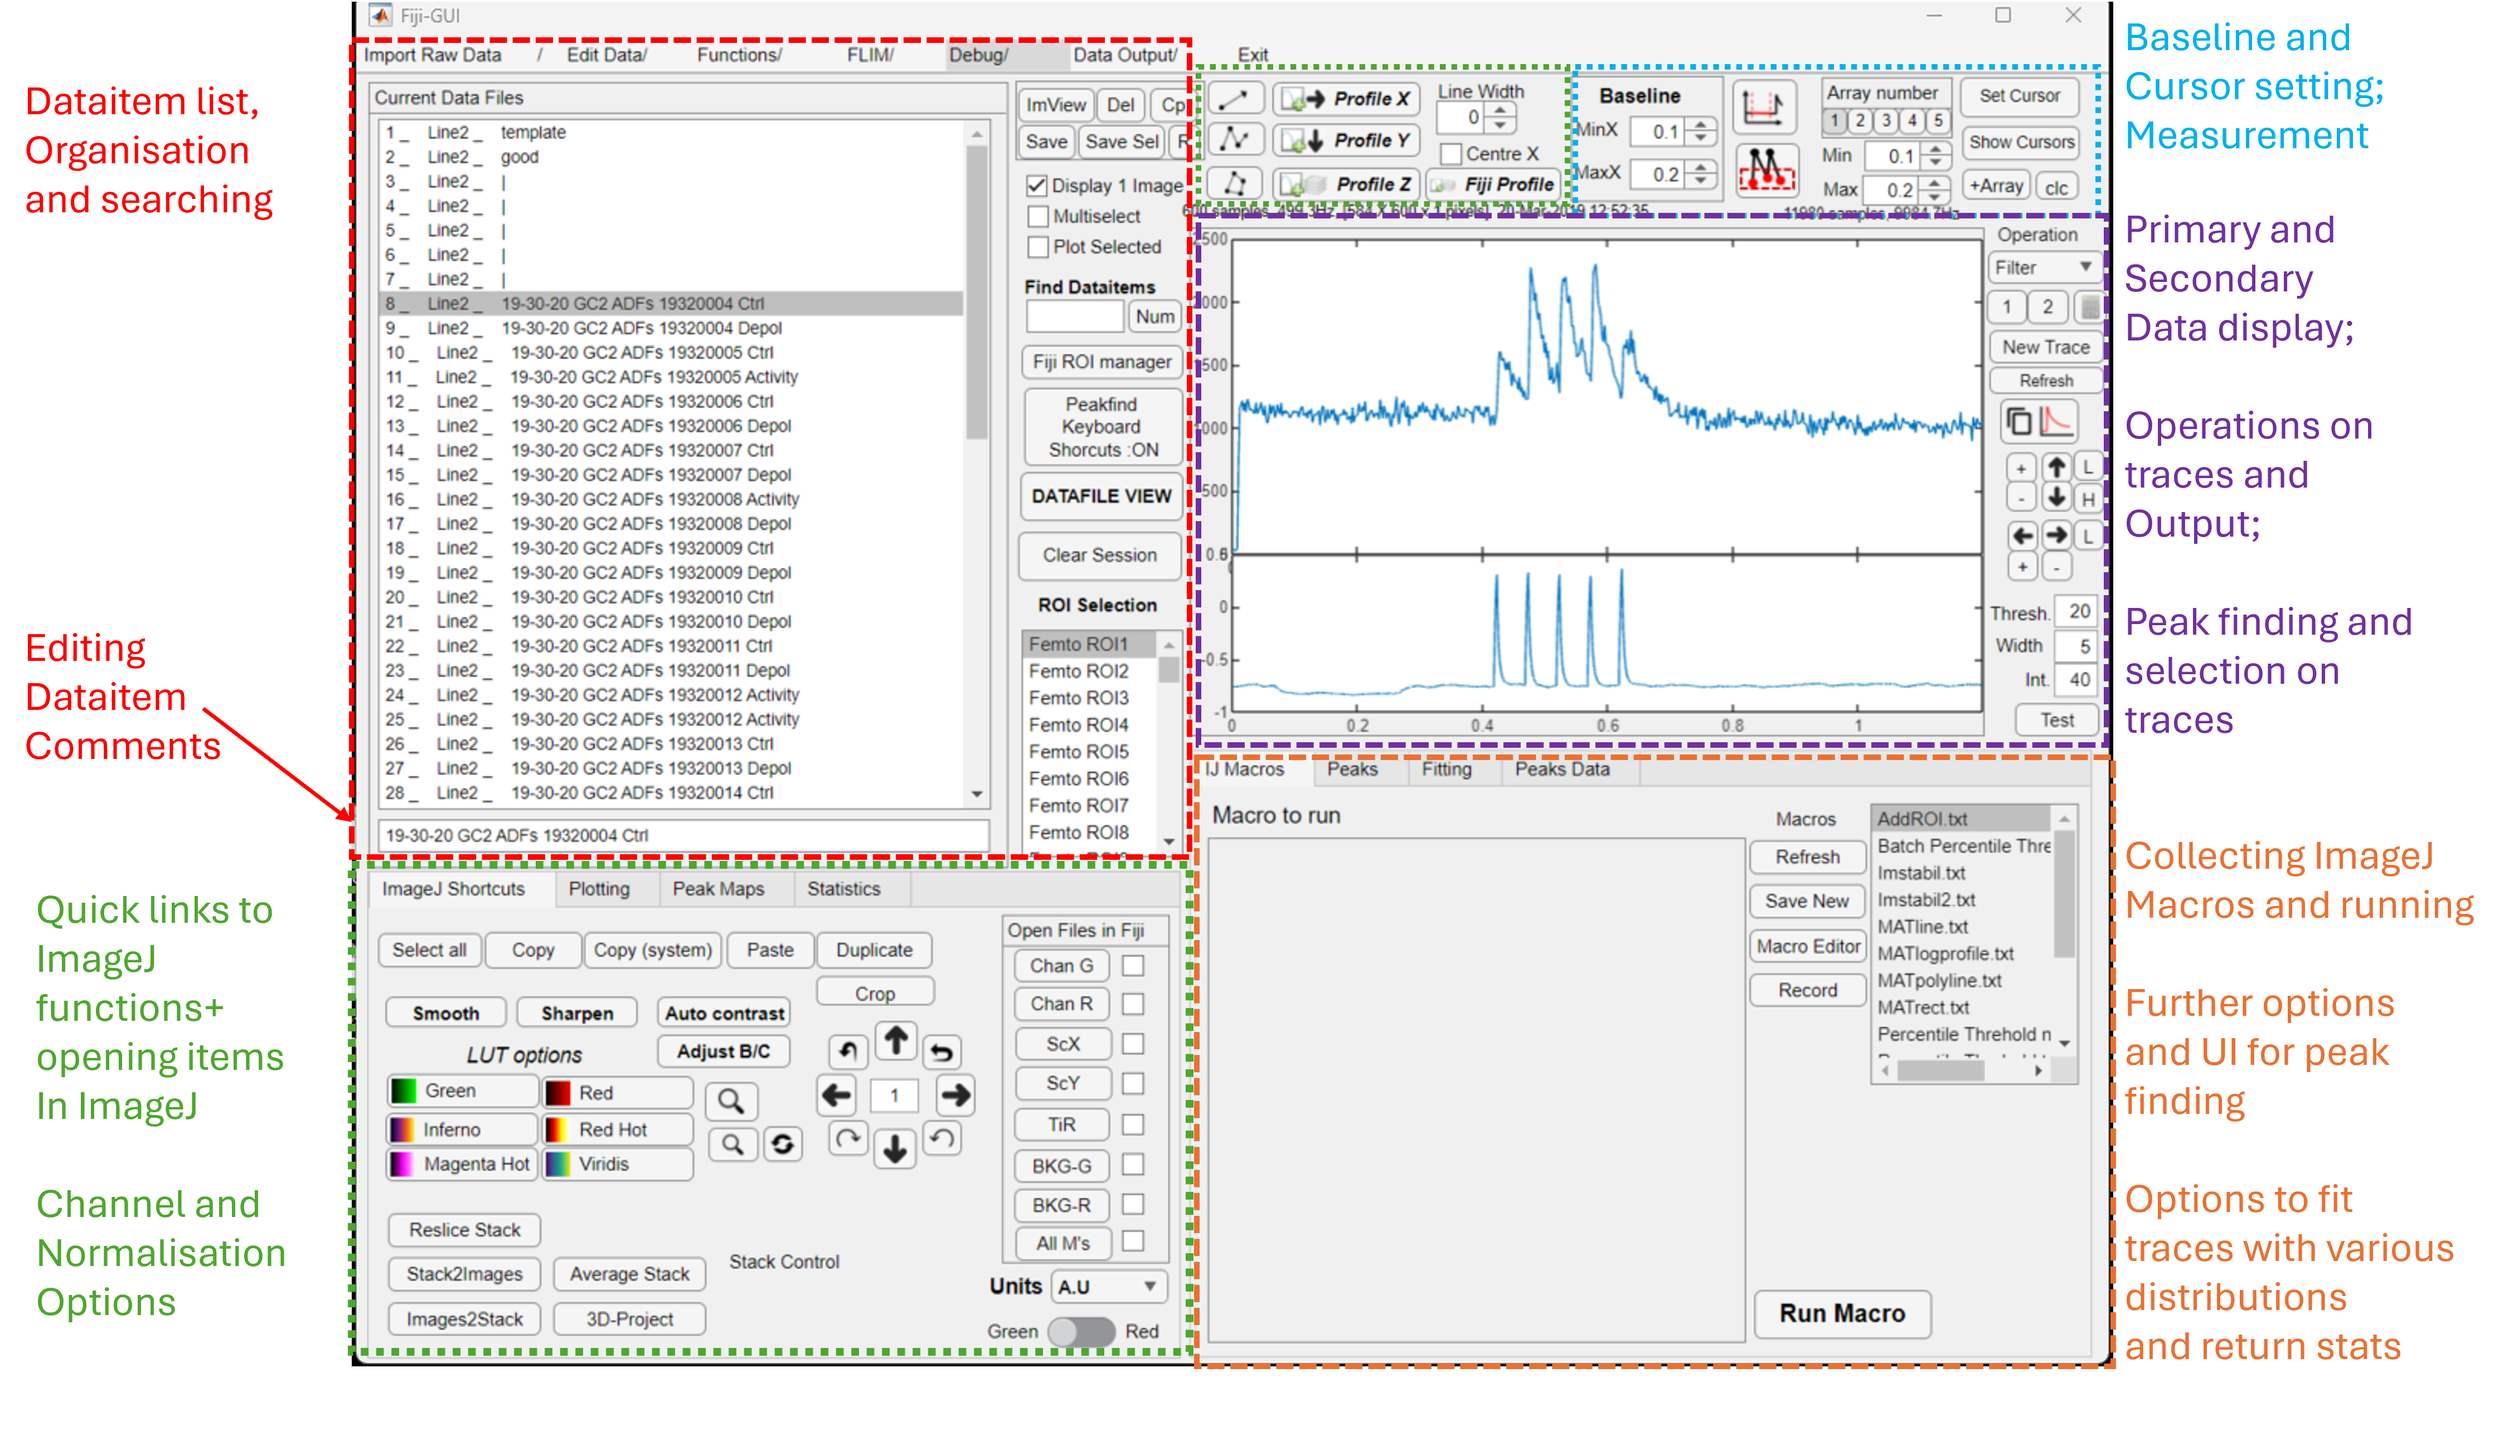
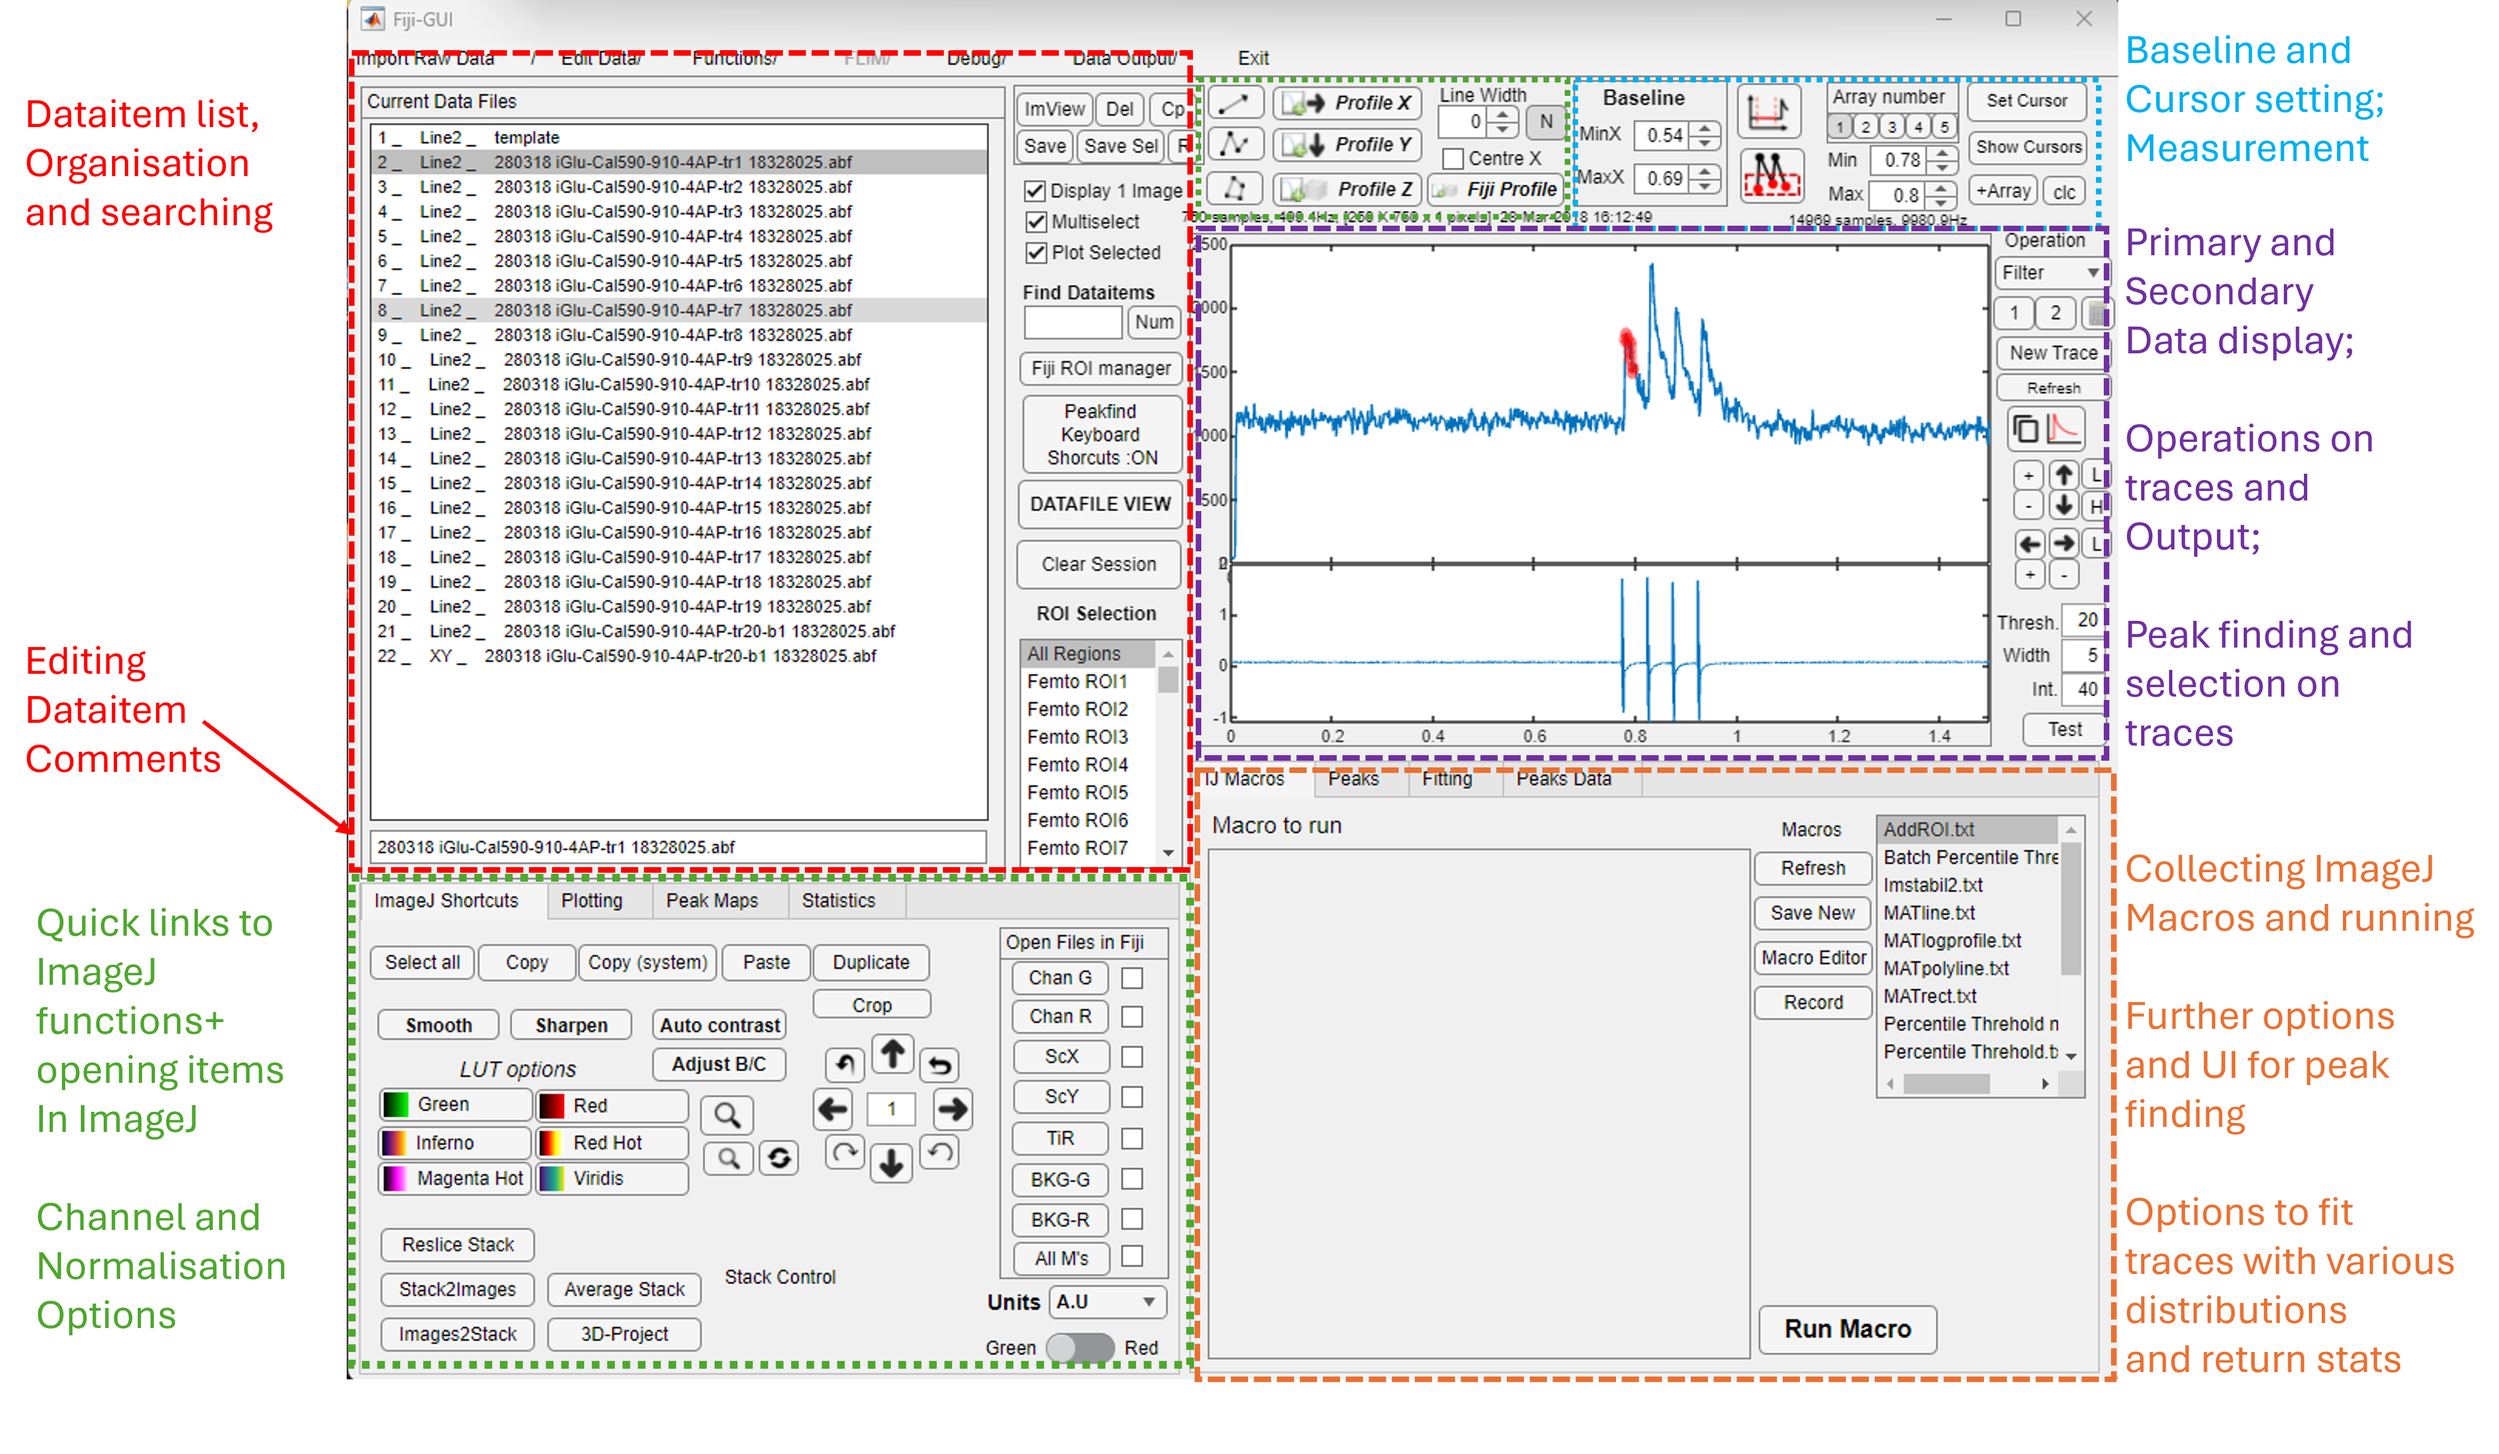
plotting UI edits and file names

diff --git a/Fiji_GUI_2Px_2022b_m.m b/Fiji_GUI_2Px_2022b_m.m
@@ -4019,6 +4019,8 @@ classdef Fiji_GUI_2Px_2022b_m < matlab.apps.AppBase
             a=app.Prim_Chan_Ax.Children; %get line plots
             a=flipud(a); %axes are stored FILO so Flip array
             %Get data from axes,stored as cell array of structures
+            app.TabGroup3.SelectedTab = app.PlottingTab;%set plotting tab open
+
             for cursor=1:5  %each of the arrays
                 app.cursordata{1,cursor}=struct("Mean",[],"Minimum",[],"Maximum",[],"StDev",[],"Sum",[]);
                 for numplots=1:size(a,1) %each of the plots in the axes
